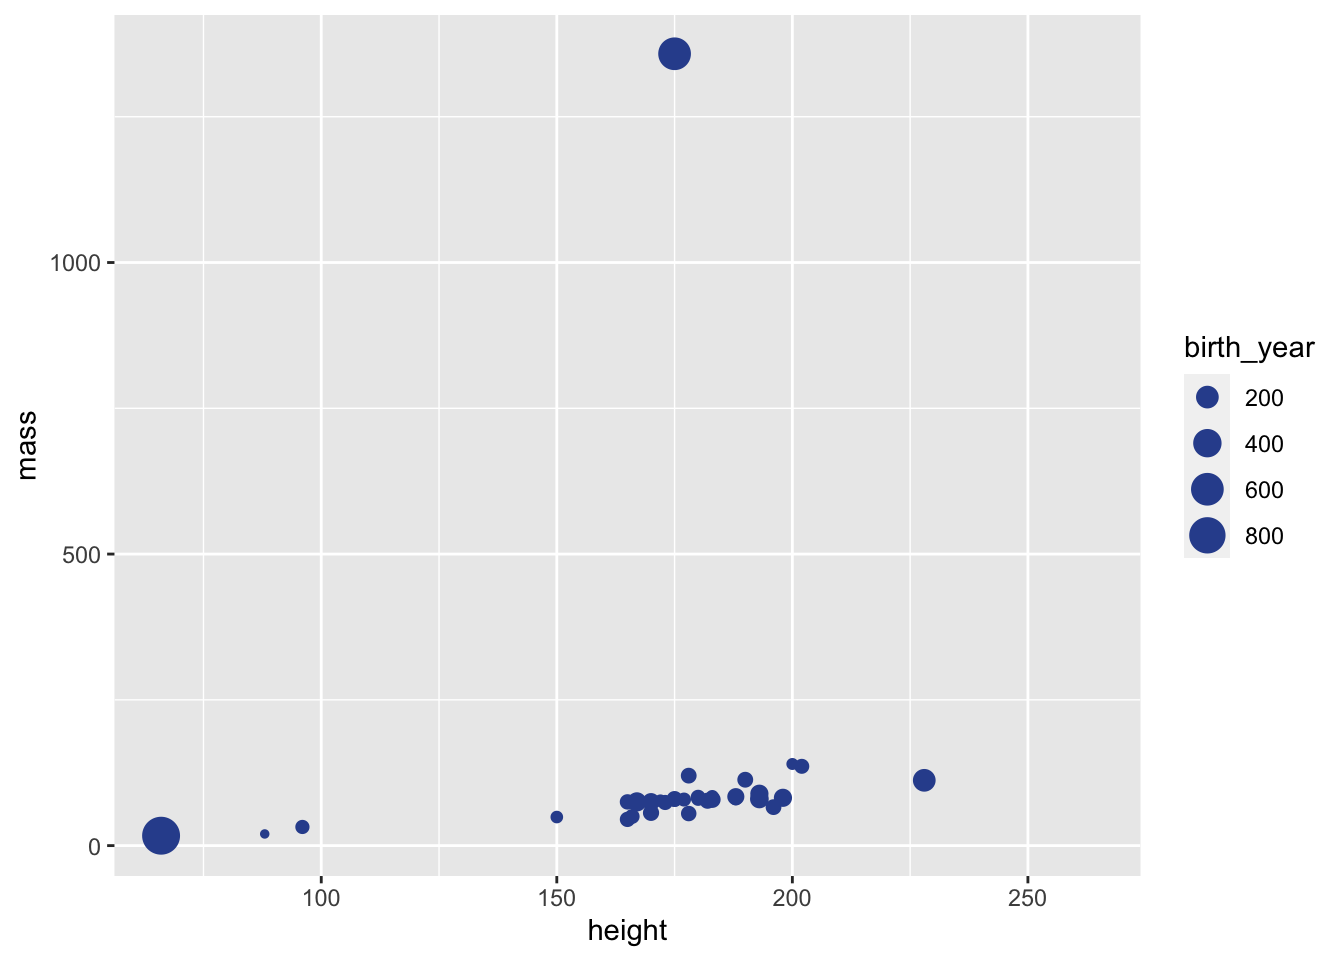
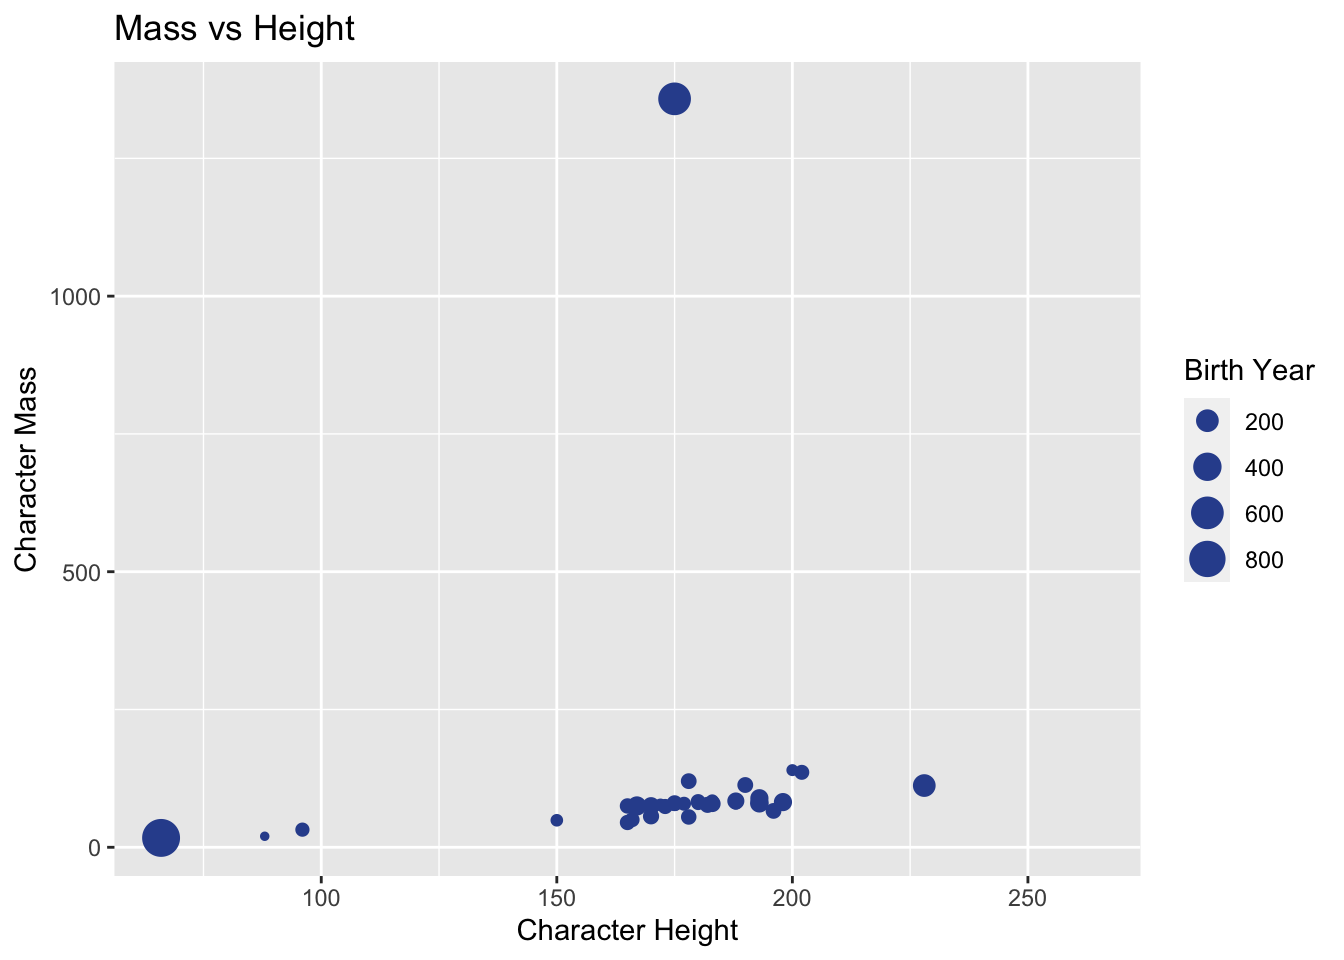
got somewhere with star wars stuff

diff --git a/HW/GB Star Wars.html b/HW/GB Star Wars.html
@@ -176,10 +176,10 @@ $ starships  &lt;list&gt; &lt;"X-wing", "Imperial shuttle"&gt;, &lt;&gt;, &lt;&g
 <span id="cb5-2"><a href="#cb5-2" aria-hidden="true" tabindex="-1"></a>       <span class="fu">aes</span>(<span class="at">x =</span> height, <span class="at">y =</span> mass, <span class="at">color =</span> gender, <span class="at">size =</span> birth_year)) <span class="sc">+</span></span>
 <span id="cb5-3"><a href="#cb5-3" aria-hidden="true" tabindex="-1"></a>  <span class="fu">geom_point</span>(<span class="at">color =</span> <span class="st">"#30509C"</span>) <span class="sc">+</span></span>
 <span id="cb5-4"><a href="#cb5-4" aria-hidden="true" tabindex="-1"></a>  <span class="fu">labs</span>(</span>
-<span id="cb5-5"><a href="#cb5-5" aria-hidden="true" tabindex="-1"></a>    <span class="co">#title = "___",</span></span>
-<span id="cb5-6"><a href="#cb5-6" aria-hidden="true" tabindex="-1"></a>    <span class="co">#x = "___", </span></span>
-<span id="cb5-7"><a href="#cb5-7" aria-hidden="true" tabindex="-1"></a>    <span class="co">#y = "___",</span></span>
-<span id="cb5-8"><a href="#cb5-8" aria-hidden="true" tabindex="-1"></a>    <span class="co">#___</span></span>
+<span id="cb5-5"><a href="#cb5-5" aria-hidden="true" tabindex="-1"></a>    <span class="at">title =</span> <span class="st">"Mass vs Height"</span>,</span>
+<span id="cb5-6"><a href="#cb5-6" aria-hidden="true" tabindex="-1"></a>    <span class="at">x =</span> <span class="st">"Character Height"</span>, </span>
+<span id="cb5-7"><a href="#cb5-7" aria-hidden="true" tabindex="-1"></a>    <span class="at">y =</span> <span class="st">"Character Mass"</span>,</span>
+<span id="cb5-8"><a href="#cb5-8" aria-hidden="true" tabindex="-1"></a>    <span class="at">size =</span> <span class="st">"Birth Year"</span></span>
 <span id="cb5-9"><a href="#cb5-9" aria-hidden="true" tabindex="-1"></a>    )</span></code><button title="Copy to Clipboard" class="code-copy-button"><i class="bi"></i></button></pre></div>
 <div class="cell-output cell-output-stderr">
 <pre><code>Warning: Removed 51 rows containing missing values (`geom_point()`).</code></pre>
@@ -193,14 +193,34 @@ $ starships  &lt;list&gt; &lt;"X-wing", "Imperial shuttle"&gt;, &lt;&gt;, &lt;&g
 </ol>
 <p>(A little bit of starter code is provided below, and the code chunk is set to not be evaluated with <code>eval: false</code> because the current code in there is not valid code and hence the document wouldn’t knit. Once you replace the code with valid code, set the chunk option to <code>eval: true</code>, or remove the <code>eval</code> option altogether since it’s set to <code>true</code> by default.)</p>
 <div class="cell">
-<div class="sourceCode cell-code" id="cb7"><pre class="sourceCode r code-with-copy"><code class="sourceCode r"><span id="cb7-1"><a href="#cb7-1" aria-hidden="true" tabindex="-1"></a><span class="fu">ggplot</span>(starwars, <span class="fu">aes</span>(___)) <span class="sc">+</span></span>
-<span id="cb7-2"><a href="#cb7-2" aria-hidden="true" tabindex="-1"></a>  geom___</span></code><button title="Copy to Clipboard" class="code-copy-button"><i class="bi"></i></button></pre></div>
+<div class="sourceCode cell-code" id="cb7"><pre class="sourceCode r code-with-copy"><code class="sourceCode r"><span id="cb7-1"><a href="#cb7-1" aria-hidden="true" tabindex="-1"></a><span class="fu">ggplot</span>(starwars, <span class="fu">aes</span>(<span class="at">x =</span> <span class="sc">-</span>birth_year, <span class="at">y =</span>)) <span class="sc">+</span></span>
+<span id="cb7-2"><a href="#cb7-2" aria-hidden="true" tabindex="-1"></a>  <span class="fu">geom_histogram</span>(<span class="at">stat =</span> <span class="st">"bin"</span>, <span class="at">binwidth =</span> <span class="dv">10</span>)</span></code><button title="Copy to Clipboard" class="code-copy-button"><i class="bi"></i></button></pre></div>
+<div class="cell-output cell-output-stderr">
+<pre><code>Warning: Removed 44 rows containing non-finite values (`stat_bin()`).</code></pre>
+</div>
+<div class="cell-output-display">
+<p><img src="GB-Star-Wars_files/figure-html/histogram-1.png" class="img-fluid" width="672"></p>
+</div>
 </div>
 <ol start="5" type="1">
 <li>Pick a numerical variable and a categorical variable and make a visualization (you pick the type!) to visualization the relationship between the two variables. Along with your code and output, provide an interpretation of the visualization.</li>
 </ol>
 <div class="cell">
-
+<div class="sourceCode cell-code" id="cb9"><pre class="sourceCode r code-with-copy"><code class="sourceCode r"><span id="cb9-1"><a href="#cb9-1" aria-hidden="true" tabindex="-1"></a><span class="fu">ggplot</span>(<span class="at">data =</span> starwars, <span class="at">mapping =</span> <span class="fu">aes</span>(<span class="at">x =</span> skin_color, <span class="at">y =</span> eye_color, <span class="at">color =</span> hair_color)) <span class="sc">+</span> </span>
+<span id="cb9-2"><a href="#cb9-2" aria-hidden="true" tabindex="-1"></a>  <span class="fu">geom_point</span>()</span></code><button title="Copy to Clipboard" class="code-copy-button"><i class="bi"></i></button></pre></div>
+<div class="cell-output-display">
+<p><img src="GB-Star-Wars_files/figure-html/num-cat-1.png" class="img-fluid" width="672"></p>
+</div>
+<div class="sourceCode cell-code" id="cb10"><pre class="sourceCode r code-with-copy"><code class="sourceCode r"><span id="cb10-1"><a href="#cb10-1" aria-hidden="true" tabindex="-1"></a><span class="fu">ggplot</span>(<span class="at">data =</span> starwars, <span class="at">mapping =</span> <span class="fu">aes</span>(<span class="at">x =</span> skin_color, <span class="at">y =</span> eye_color)) <span class="sc">+</span> </span>
+<span id="cb10-2"><a href="#cb10-2" aria-hidden="true" tabindex="-1"></a>  <span class="fu">geom_point</span>()</span></code><button title="Copy to Clipboard" class="code-copy-button"><i class="bi"></i></button></pre></div>
+<div class="cell-output-display">
+<p><img src="GB-Star-Wars_files/figure-html/num-cat-2.png" class="img-fluid" width="672"></p>
+</div>
+<div class="sourceCode cell-code" id="cb11"><pre class="sourceCode r code-with-copy"><code class="sourceCode r"><span id="cb11-1"><a href="#cb11-1" aria-hidden="true" tabindex="-1"></a><span class="fu">ggplot</span>(<span class="at">data=</span>starwars, <span class="at">mapping =</span> <span class="fu">aes</span>(<span class="at">y =</span> <span class="fu">as.character</span>(starships), <span class="at">x =</span> sex))<span class="sc">+</span></span>
+<span id="cb11-2"><a href="#cb11-2" aria-hidden="true" tabindex="-1"></a>  <span class="fu">geom_point</span>()</span></code><button title="Copy to Clipboard" class="code-copy-button"><i class="bi"></i></button></pre></div>
+<div class="cell-output-display">
+<p><img src="GB-Star-Wars_files/figure-html/num-cat-3.png" class="img-fluid" width="672"></p>
+</div>
 </div>
 <p>Interpretation goes here…</p>
 <ol start="6" type="1">

diff --git a/HW/GB-Edinburgh-AirBNB.md b/HW/GB-Edinburgh-AirBNB.md
@@ -28,7 +28,7 @@ data is actually large enough to compare.
 
 ``` r
 ggplot(data = edibnb %>% filter(price < 300), mapping = aes(x = price))+
-  geom_histogram(stat = "bin", binwidth = 20)+
+  geom_histogram(binwidth = 20)+
   facet_wrap(~neighbourhood, nrow = 4)
 ```
 
